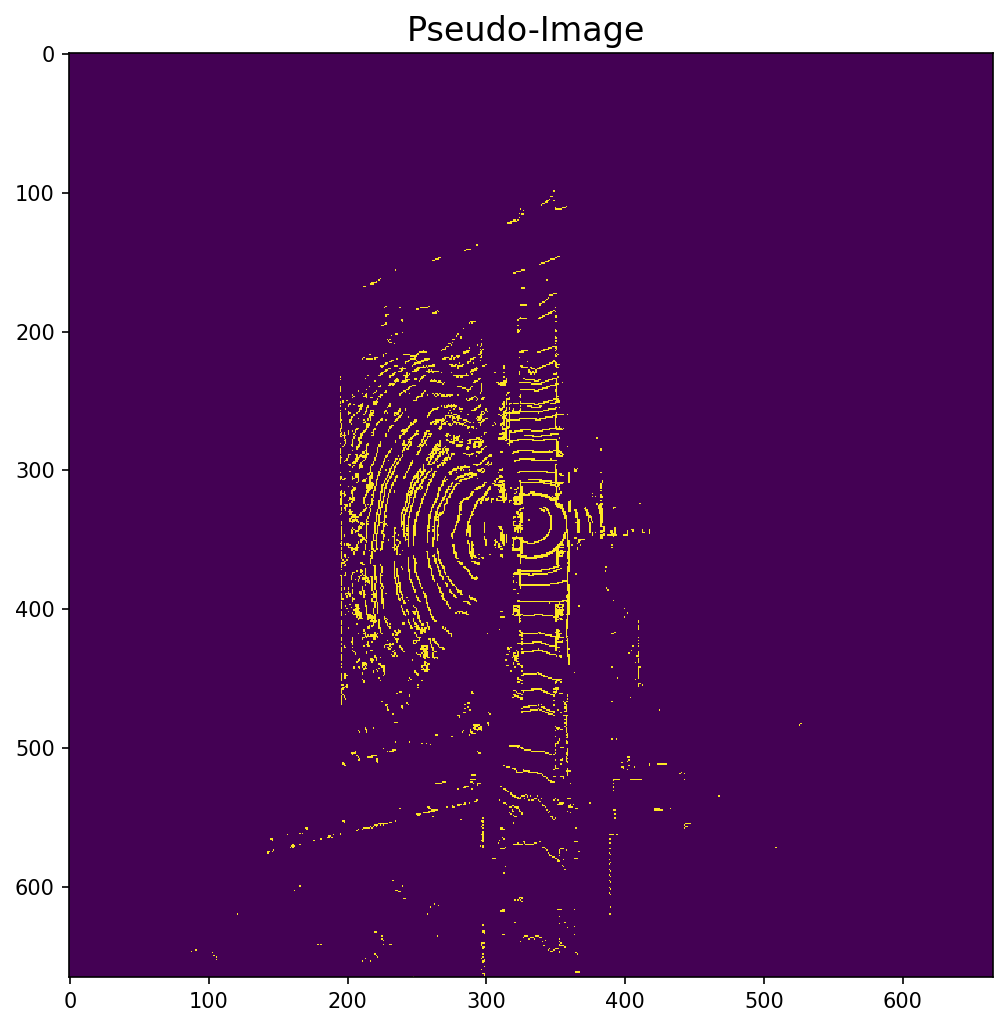
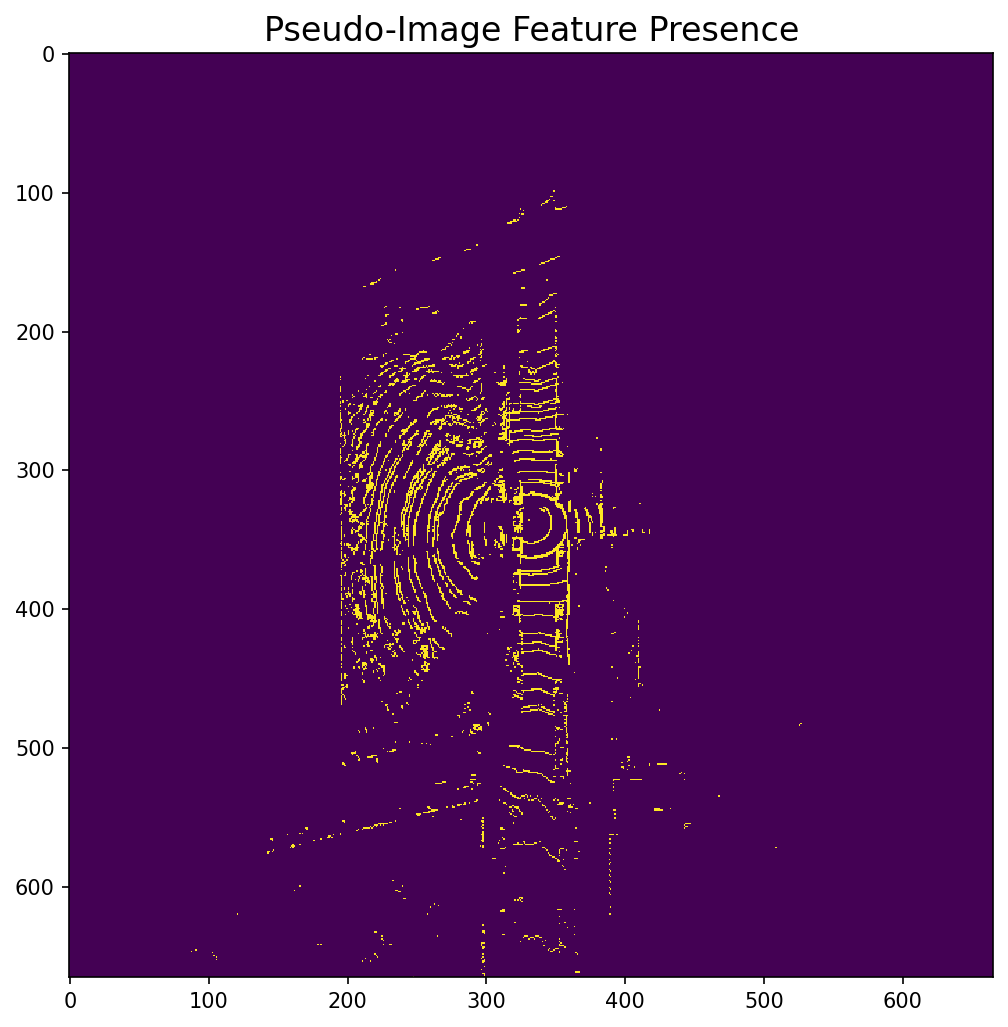
Update - Included multi batch processing

Changed region(s): [[0.246, 0.0, 0.7996, 0.0623]]

diff --git a/src/models/PointPillars.py b/src/models/PointPillars.py
@@ -12,14 +12,14 @@ class PillarFeatureNet(nn.Module):
         self.linear = nn.Linear(in_channels, out_channels)
         self.bn = nn.BatchNorm1d(out_channels)
 
-    def forward(self, x):  # x: [P, N, 9]
-        P, N, D = x.shape
-        x = x.view(P * N, D)
+    def forward(self, x):  # x: [B, P, N, 9]
+        B, P, N, D = x.shape
+        x = x.view(B * P * N, D)
         x = self.linear(x)
         x = self.bn(x)
         x = F.relu(x)
-        x = x.view(P, N, -1)
-        x = torch.max(x, dim=1)[0]  # [P, C]
+        x = x.view(B, P, N, -1)
+        x = torch.max(x, dim=2)[0]  # [B, P, C]
         return x
 
 class PseudoImageScatter(nn.Module):
@@ -38,42 +38,46 @@ class PseudoImageScatter(nn.Module):
     def forward(self, pillar_features, coords):
         """
         Args:
-            pillar_features: Tensor of shape [num_pillars, num_features]
-            coords: Tensor of shape [num_pillars, 3] with indices (batch_idx, x_idx, y_idx)
+            pillar_features: Tensor of shape [B, num_pillars, num_features]
+            coords: Tensor of shape [B, num_pillars, 4] with indices (batch_idx, x_idx, y_idx)
         
         Returns:
-            pseudo_image: Tensor of shape [1, num_features, H, W]
+            pseudo_image: Tensor of shape [B, num_features, H, W]
         """
         H, W = self.output_shape
-        
-        # Create empty pseudo-image tensor with batch_size=1
+        B = pillar_features.shape[0]
+
+        # Create empty pseudo-image tensor
         pseudo_image = torch.zeros(
-            (1, self.num_features, H, W),
+            (B, self.num_features, H, W),
             dtype=pillar_features.dtype,
             device=pillar_features.device
         )
-        
-        # Only use non-empty pillars
-        if pillar_features.shape[0] > 0:
-            # Get indices from coords - assuming batch index is always 0
-            x_idx = coords[:, 2].long()  # Note: In your implementation, y is at index 2
-            y_idx = coords[:, 1].long()  # and x is at index 1 (this follows the paper's convention)
-            
-            # Filter out invalid coordinates
-            valid_mask = (
-                (x_idx >= 0) & (x_idx < W) & 
-                (y_idx >= 0) & (y_idx < H)
-            )
-            
-            if valid_mask.any():
-                y_idx_valid = y_idx[valid_mask]
-                x_idx_valid = x_idx[valid_mask]
-                features_valid = pillar_features[valid_mask]
-                
-                # Simple approach - loop through each valid pillar
-                for i in range(len(y_idx_valid)):
-                    pseudo_image[0, :, y_idx_valid[i], x_idx_valid[i]] = features_valid[i]
-        
+
+        # Get indices from coords
+        batch_indices = coords[:, :, 0].long()  # [B, num_pillars]
+        y_indices = coords[:, :, 1].long()      # [B, num_pillars]
+        x_indices = coords[:, :, 2].long()      # [B, num_pillars]
+
+        # Scatter pillar features to the pseudo-image
+        for b in range(B):
+            pillar_features_sample = pillar_features[b]  # [num_pillars, num_features]
+            batch_indices_sample = batch_indices[b]      # [num_pillars]
+            y_indices_sample = y_indices[b]              # [num_pillars]
+            x_indices_sample = x_indices[b]              # [num_pillars]
+
+            # Create a mask to filter out padding
+            mask = (x_indices_sample >= 0) & (x_indices_sample < W) & \
+                   (y_indices_sample >= 0) & (y_indices_sample < H)
+
+            # Apply the mask
+            pillar_features_valid = pillar_features_sample[mask]
+            y_indices_valid = y_indices_sample[mask]
+            x_indices_valid = x_indices_sample[mask]
+
+            # Scatter the valid features
+            pseudo_image[b, :, y_indices_valid, x_indices_valid] = pillar_features_valid.T
+
         return pseudo_image
 
 class CNN_BackBone(nn.Module):
@@ -194,13 +198,13 @@ class PointPillarsModel(nn.Module):
         
     def forward(self, pillars, coords):
         # Pillar feature encoding
-        pillar_features = self.pfn(pillars)  # [P, C]
+        pillar_features = self.pfn(pillars)  # [B, P, C]
         
         # Scatter to pseudo image
-        pseudo_image = self.scatter(pillar_features, coords)  # [1, C, H, W]
+        pseudo_image = self.scatter(pillar_features, coords)  # [B, C, H, W]
         
         # CNN backbone
-        cnn_features = self.backbone(pseudo_image)  # [1, 128, H/4, W/4]
+        cnn_features = self.backbone(pseudo_image)  # [B, 128, H/4, W/4]
         
         # SSD head
         bbox_preds, cls_scores, dir_scores = self.head(cnn_features)
@@ -230,8 +234,12 @@ if __name__ == "__main__":
     pillars_tensor = torch.from_numpy(pillars).float()
     coords_tensor = torch.from_numpy(coords).int()
 
-    print(f"Input pillar shape: {pillars.shape}")
-    print(f"Coords shape: {coords.shape}")
+    # Add batch dimension
+    pillars_tensor = pillars_tensor.unsqueeze(0)  # [1, P, N, 9]
+    coords_tensor = coords_tensor.unsqueeze(0)    # [1, P, 4]
+
+    print(f"Input Pillars tensor shape: {pillars_tensor.shape}")
+    print(f"Input Coords tensor shape: {coords_tensor.shape}")
 
     # Initialize the model
     model = PointPillarsModel(num_classes=len(train_dataset.classes) + 1)  # +1 for background class

diff --git a/src/utils/visualization/PsuedoImageScatter.py b/src/utils/visualization/PsuedoImageScatter.py
@@ -8,13 +8,16 @@ def visualize_pseudo_image(pseudo_image, save_path=None, figsize=(10, 8)):
     Visualizes the feature presence in a pseudo-image.
     
     Args:
-        pseudo_image (torch.Tensor): Tensor of shape [1, C, H, W] where C is number of channels
+        pseudo_image (torch.Tensor): Tensor of shape [B, C, H, W] where B is batch size and C is number of channels
         save_path (str, optional): Path to save the visualization. If None, the plot is shown.
         figsize (tuple): Figure size (width, height) in inches
     """
     if isinstance(pseudo_image, torch.Tensor):
         # Move to CPU if on GPU and convert to numpy
         pseudo_image = pseudo_image.detach().cpu().numpy()
+    
+    # Average across the batch dimension
+    pseudo_image = np.mean(pseudo_image, axis=0, keepdims=True)
     
     # Count non-zero elements in each spatial cell
     non_zero_mask = (pseudo_image[0] != 0).sum(axis=0) > 0
@@ -25,7 +28,7 @@ def visualize_pseudo_image(pseudo_image, save_path=None, figsize=(10, 8)):
     # Plot binary presence of features with enhanced visibility
     im = plt.imshow(non_zero_mask, cmap='viridis', interpolation='nearest')
     
-    plt.title('Pseudo-Image ', fontsize=16)
+    plt.title('Pseudo-Image Feature Presence', fontsize=16)
     plt.grid(False)
     
     # Higher DPI for better quality
@@ -68,6 +71,10 @@ if __name__ == "__main__":
     # Convert numpy arrays to torch tensors
     pillars_tensor = torch.from_numpy(pillars).float()
     coords_tensor = torch.from_numpy(coords).int()
+    
+    # Add batch dimension
+    pillars_tensor = pillars_tensor.unsqueeze(0)  # [1, P, N, 9]
+    coords_tensor = coords_tensor.unsqueeze(0)    # [1, P, 4]
     
     # Calculate grid dimensions
     x_range = (-100, 100)
